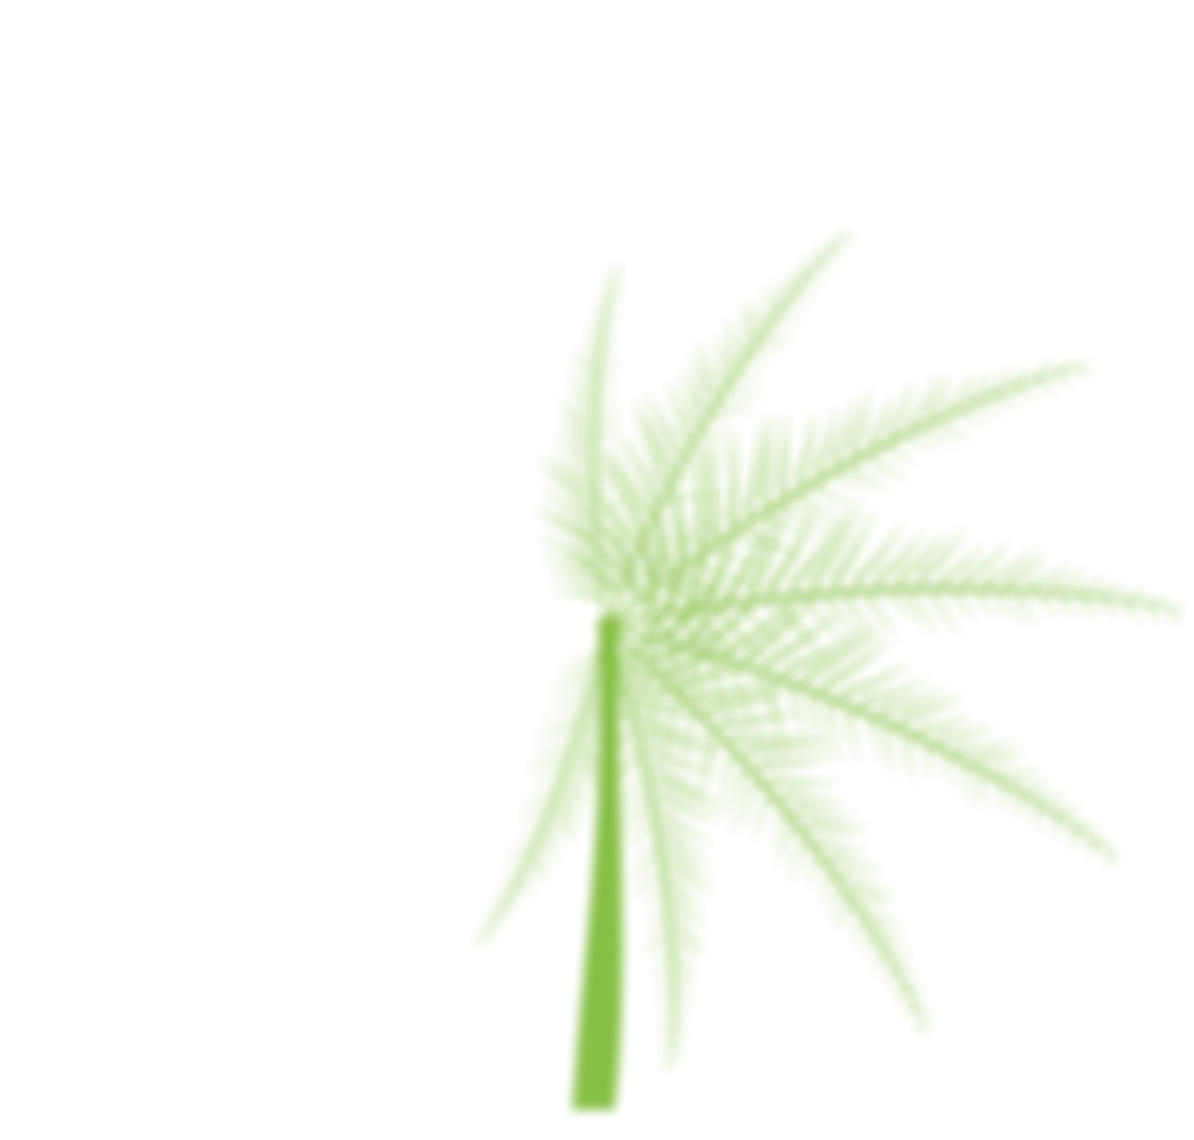
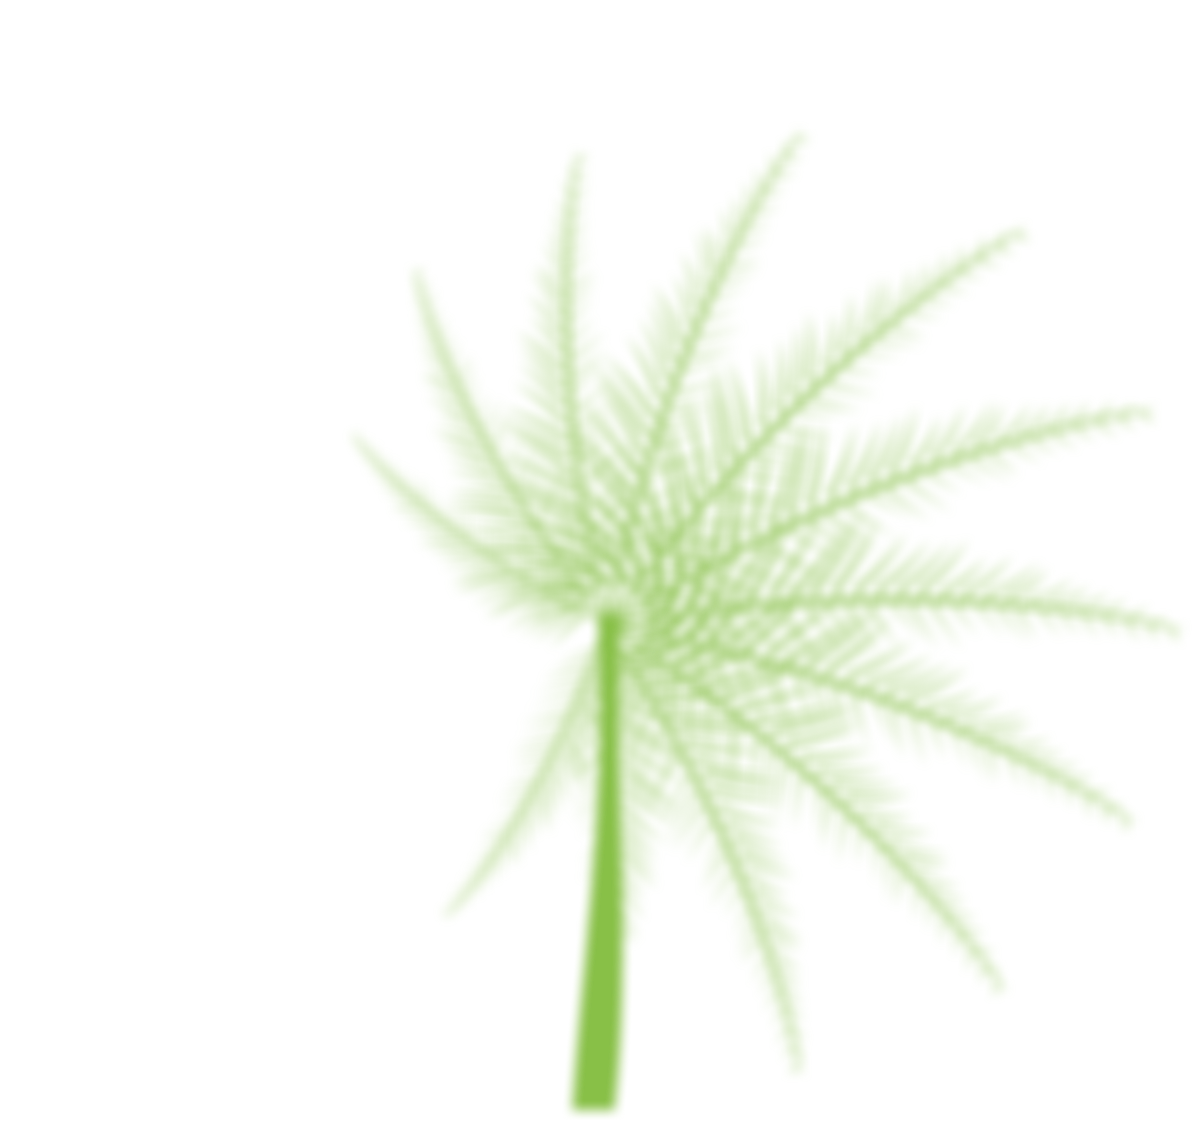
Scribble reliability, denser bottom-anchored palms, reel card shadow perf

Changed region(s): [[0.3099, 0.1228, 0.9916, 0.9518], [0.3719, 0.5833, 0.4958, 0.8289], [0.8367, 0.1842, 0.8677, 0.2149]]

diff --git a/components/Accent.tsx b/components/Accent.tsx
@@ -1,6 +1,7 @@
 "use client";
 
-import { motion, useReducedMotion } from "motion/react";
+import { useRef } from "react";
+import { motion, useInView, useReducedMotion } from "motion/react";
 import type { ReactNode } from "react";
 import { cn } from "@/lib/cn";
 
@@ -49,8 +50,13 @@ export function Scribble({
   stroke?: string;
 }) {
   const reduced = useReducedMotion();
+  const ref = useRef<HTMLSpanElement>(null);
+  // observe the span itself once it's actually visible (it may start
+  // inside a clipped line-mask) — never trust whileInView on the path
+  const inView = useInView(ref, { once: true, amount: 0.6 });
+  const on = reduced || inView;
   return (
-    <span className={cn("relative inline-block whitespace-nowrap", className)}>
+    <span ref={ref} className={cn("relative inline-block whitespace-nowrap", className)}>
       {children}
       <svg
         className="absolute -bottom-[0.18em] left-0 w-full"
@@ -64,10 +70,9 @@ export function Scribble({
           stroke={stroke}
           strokeWidth={7}
           strokeLinecap="round"
-          initial={reduced ? false : { pathLength: 0 }}
-          whileInView={{ pathLength: 1 }}
-          viewport={{ once: true, margin: "-80px" }}
-          transition={{ duration: 0.7, delay: 0.35, ease: "easeOut" }}
+          initial={false}
+          animate={on ? { pathLength: 1, opacity: 1 } : { pathLength: 0.001, opacity: 0 }}
+          transition={{ duration: 0.7, delay: 0.3, ease: "easeOut" }}
         />
       </svg>
     </span>

diff --git a/components/ReelTheater.tsx b/components/ReelTheater.tsx
@@ -176,7 +176,7 @@ export default function ReelTheater() {
                   className={
                     "relative shrink-0 transition-[transform,opacity] duration-500 ease-out " +
                     (isActive
-                      ? "z-10 scale-100 opacity-100 drop-shadow-[0_0_50px_rgba(136,192,71,0.25)]"
+                      ? "z-10 scale-100 opacity-100"
                       : "scale-[0.85] opacity-40")
                   }
                   style={{ height: "var(--ch)", aspectRatio: "9 / 16" }}
@@ -184,7 +184,7 @@ export default function ReelTheater() {
                   <button
                     type="button"
                     onClick={() => onCardClick(i)}
-                    className="chamfer group relative block h-full w-full overflow-hidden bg-ink-3 text-left"
+                    className={"chamfer group relative block h-full w-full overflow-hidden bg-ink-3 text-left " + (isActive ? "shadow-[0_0_60px_rgba(136,192,71,0.22)]" : "")}
                     aria-label={
                       isActive
                         ? soundOn

diff --git a/scripts/gen-palmtree.js b/scripts/gen-palmtree.js
@@ -9,8 +9,9 @@ const frondD = fs.readFileSync(path.join(RAW, "frond1.txt"), "utf8").trim();
 
 // crown: fronds fanned around the trunk top; trunk: tapered with a slight lean
 const CROWN = [
-  { r: -105, s: 0.62 }, { r: -75, s: 0.8 }, { r: -45, s: 0.95 }, { r: -18, s: 1 },
-  { r: 8, s: 0.98 }, { r: 35, s: 0.9 }, { r: 65, s: 0.78 }, { r: 95, s: 0.6 },
+  { r: -160, s: 0.55 }, { r: -135, s: 0.7 }, { r: -110, s: 0.82 }, { r: -85, s: 0.92 },
+  { r: -60, s: 1 }, { r: -38, s: 1.02 }, { r: -16, s: 1 }, { r: 4, s: 0.98 },
+  { r: 26, s: 0.94 }, { r: 50, s: 0.85 }, { r: 76, s: 0.72 }, { r: 102, s: 0.58 },
 ].map(
   (f) =>
     `<g transform="rotate(${f.r}) scale(${f.s})"><path d="${frondD}" fill="currentColor"/></g>`

diff --git a/components/ContactCTA.tsx b/components/ContactCTA.tsx
@@ -10,7 +10,7 @@ export default function ContactCTA() {
   return (
     <section className="relative overflow-hidden bg-green py-28 text-ink md:py-40">
       <Glyph className="pointer-events-none absolute -right-[8%] top-1/2 h-[150%] w-auto -translate-y-1/2 text-ink opacity-[0.08]" />
-      <PalmShadow className="left-[-4%] top-[-16%] h-[38rem] w-[34rem] opacity-30" tone="dark" />
+      <PalmShadow className="left-[-5%] bottom-[-2rem] h-[42rem] w-[30rem] opacity-30" tone="dark" />
       <div className="relative mx-auto max-w-7xl px-5 text-center md:px-8">
         <Reveal>
           <p className="label text-ink/70">Direct line</p>

diff --git a/components/PageHero.tsx b/components/PageHero.tsx
@@ -20,7 +20,7 @@ export default function PageHero({
         className="pointer-events-none absolute -right-[14%] -top-[30%] h-[130%] w-auto text-green opacity-[0.05]"
         strokeWidth={4}
       />
-      <PalmShadow className="right-[2%] top-[2%] hidden h-[32rem] w-[28rem] opacity-[0.22] lg:block" tone="green" flip />
+      <PalmShadow className="right-[1%] bottom-[-3rem] hidden h-[30rem] w-[24rem] opacity-[0.22] lg:block" tone="green" flip />
       <div className="relative mx-auto max-w-7xl px-5 md:px-8">
         <Reveal>
           <p className="tag-index">{label}</p>

diff --git a/components/Playbook.tsx b/components/Playbook.tsx
@@ -20,7 +20,7 @@ export default function Playbook() {
   const reduced = useReducedMotion();
   return (
     <section className="glow-tl relative overflow-hidden py-24 md:py-32">
-      <PalmShadow className="right-[-5%] top-[-8%] h-[38rem] w-[34rem] opacity-25" tone="green" flip />
+      <PalmShadow className="right-[-6%] bottom-[-2rem] h-[38rem] w-[28rem] opacity-25" tone="green" flip />
 
       <div className="relative mx-auto max-w-7xl px-5 md:px-8">
         <Reveal className="flex items-center gap-5">

diff --git a/components/StoryTeaser.tsx b/components/StoryTeaser.tsx
@@ -24,7 +24,7 @@ export default function StoryTeaser() {
       ref={ref}
       className="relative overflow-hidden border-y border-line bg-ink-2 py-24 md:py-32"
     >
-      <PalmShadow className="left-[-6%] top-[-8%] h-[34rem] w-[30rem] opacity-[0.22]" tone="green" />
+      <PalmShadow className="left-[-7%] bottom-[-2rem] h-[36rem] w-[26rem] opacity-[0.22]" tone="green" />
 
       {/* the year, drifting behind the copy column */}
       <motion.p
